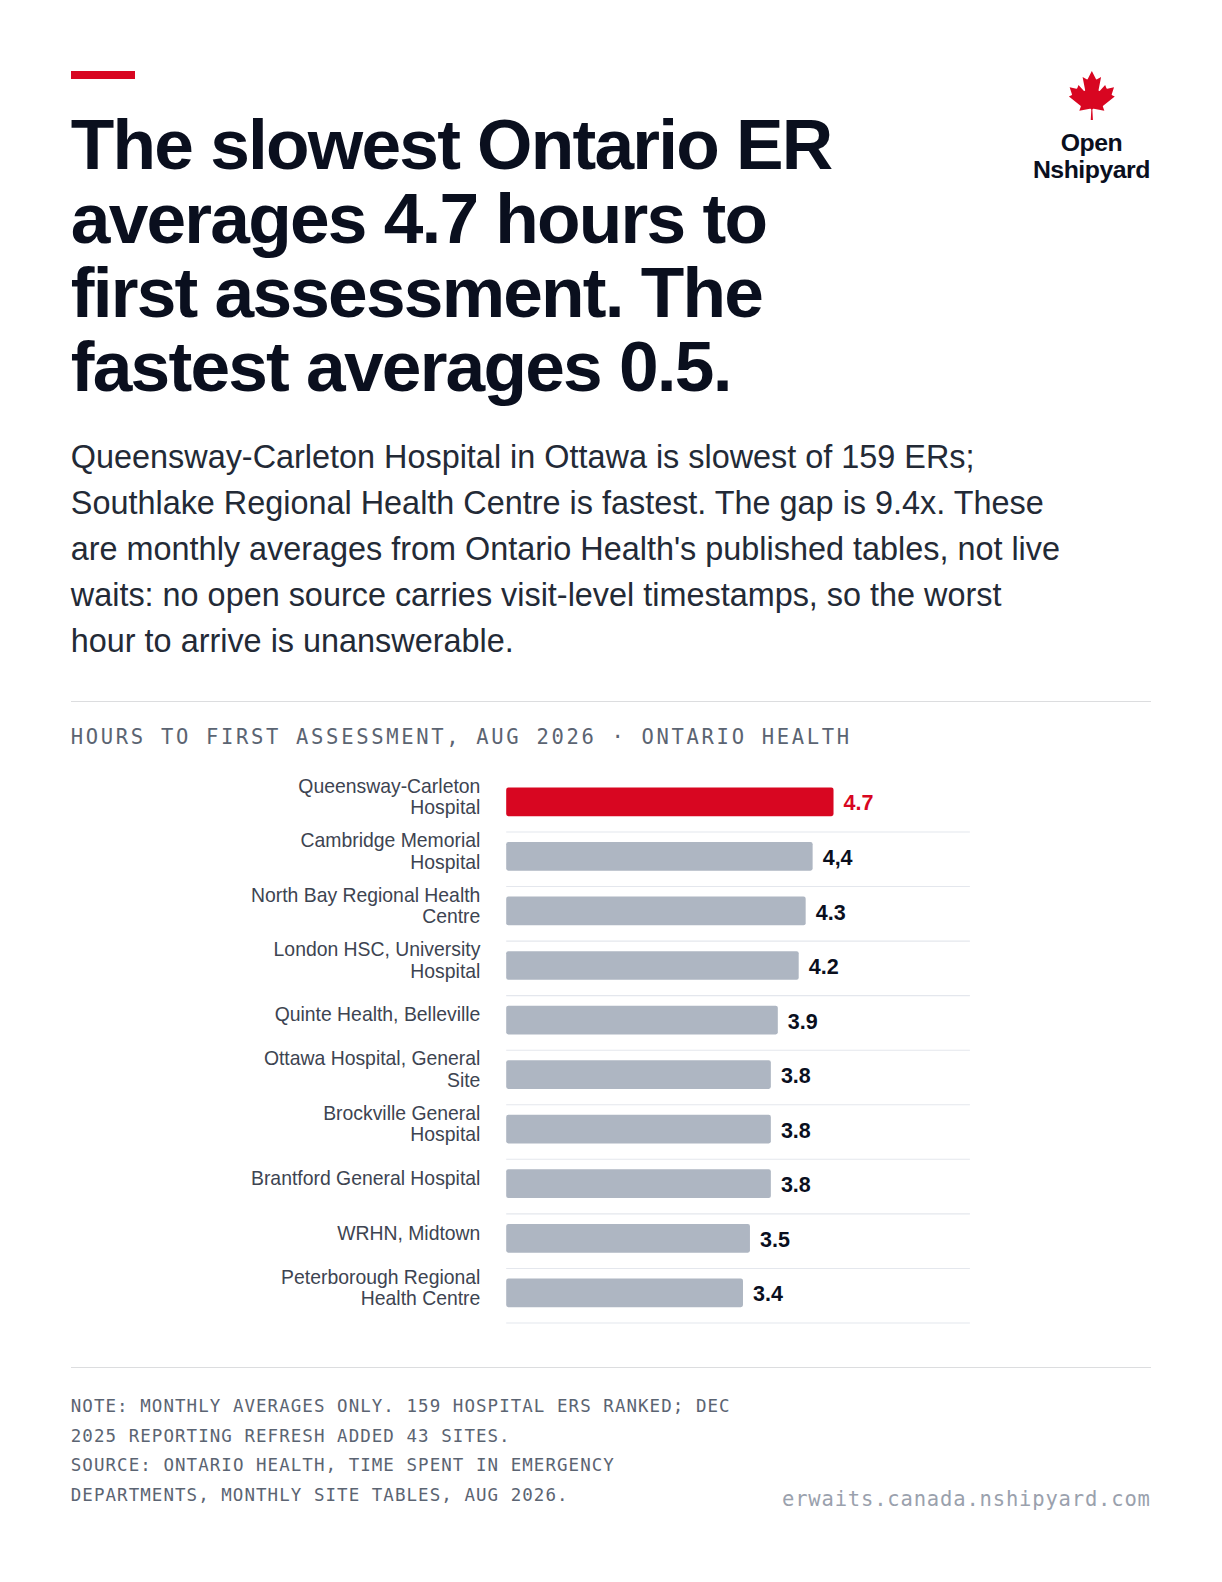
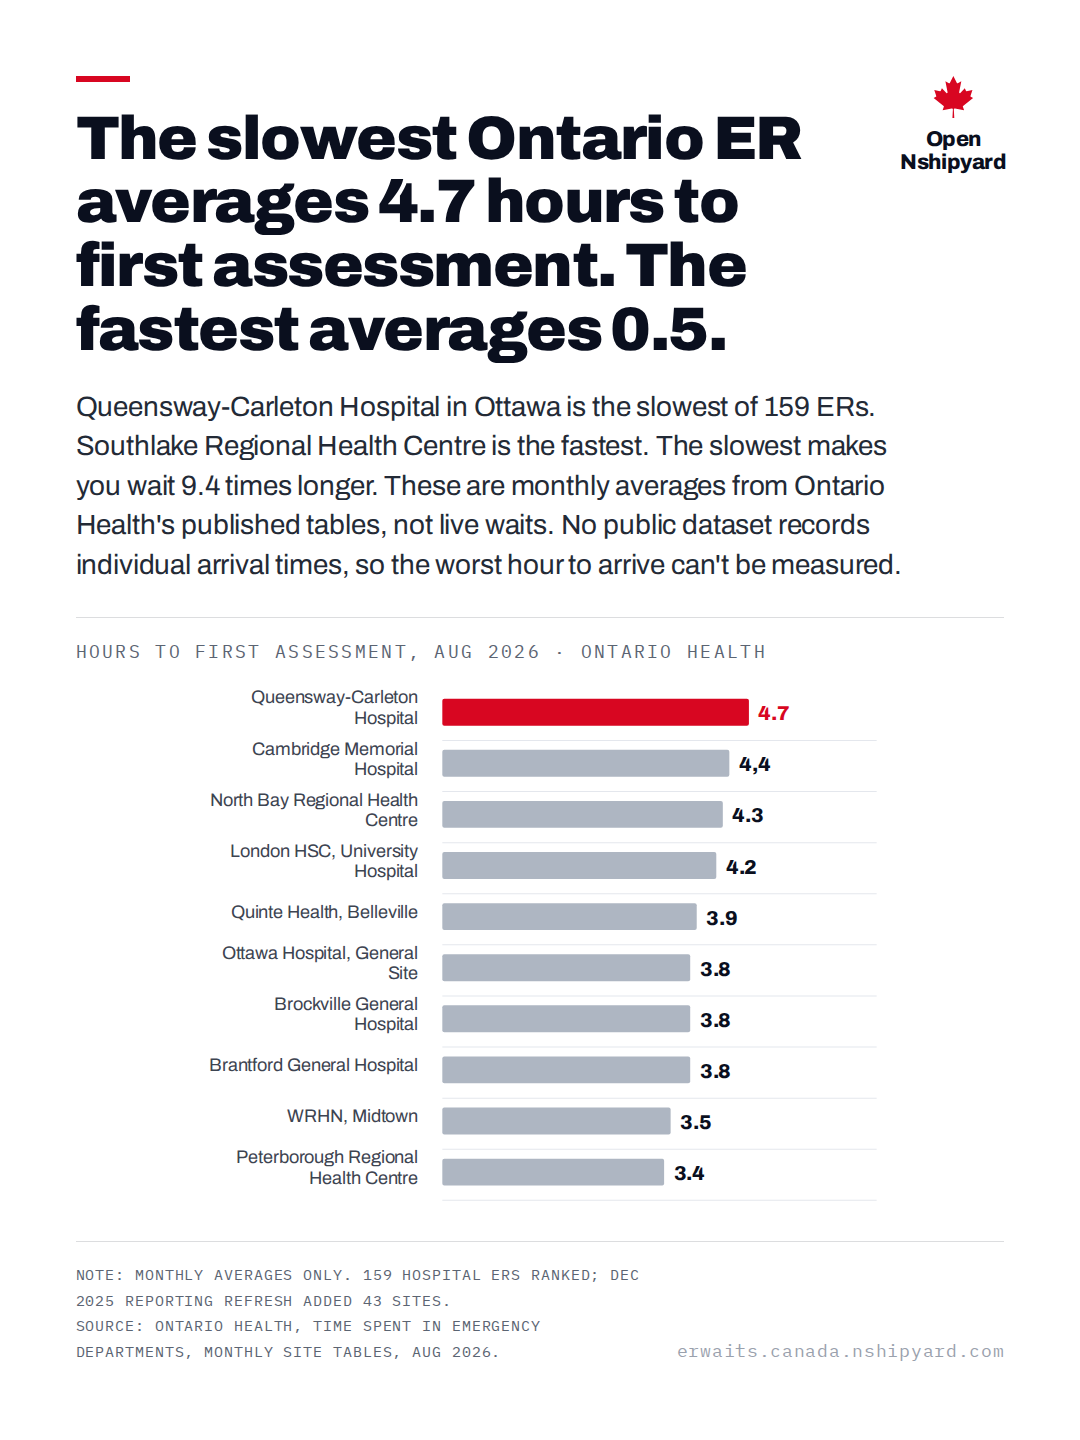
erwaits-slowest-fastest card: plain-language deck rewrite

diff --git a/src/charts/chart-data.ts b/src/charts/chart-data.ts
@@ -1366,7 +1366,7 @@ export const CHARTS: ChartDef[] = [
       slug: "erwaits-slowest-fastest",
       kicker: "Hours to first assessment, Aug 2026 · Ontario Health",
       headline: "The slowest Ontario ER averages 4.7 hours to first assessment. The fastest averages 0.5.",
-      deck: "Queensway-Carleton Hospital in Ottawa is slowest of 159 ERs; Southlake Regional Health Centre is fastest. The gap is 9.4x. These are monthly averages from Ontario Health's published tables, not live waits: no open source carries visit-level timestamps, so the worst hour to arrive is unanswerable.",
+      deck: "Queensway-Carleton Hospital in Ottawa is the slowest of 159 ERs. Southlake Regional Health Centre is the fastest. The slowest makes you wait 9.4 times longer. These are monthly averages from Ontario Health's published tables, not live waits. No public dataset records individual arrival times, so the worst hour to arrive can't be measured.",
       note: "Monthly averages only. 159 hospital ERs ranked; Dec 2025 reporting refresh added 43 sites.",
       source: "Ontario Health, Time Spent in Emergency Departments, monthly site tables, Aug 2026.",
       shareText:
